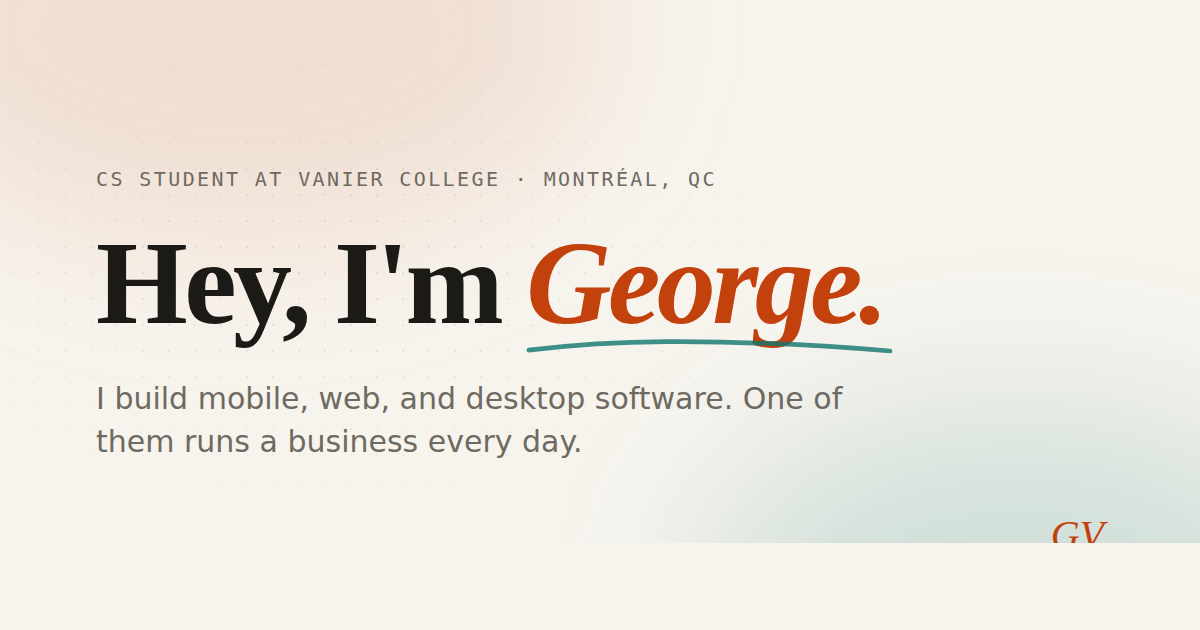
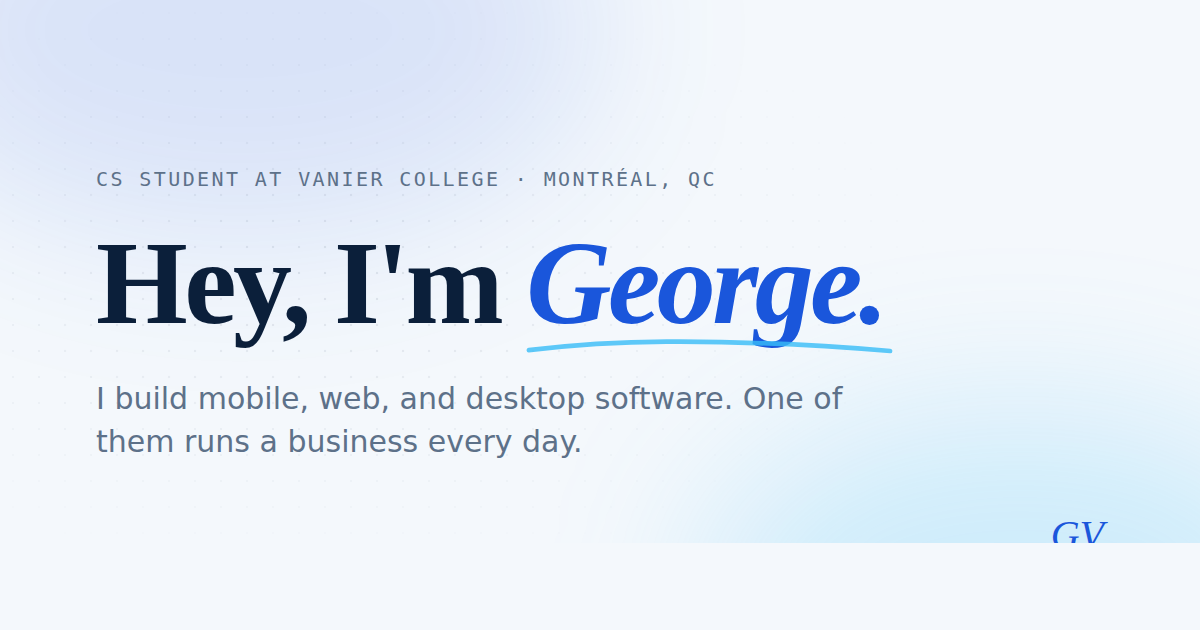
Switch the palette to navy ink on baby-blue paper
Light: baby-blue tinted white surfaces, navy ink, royal blue accent, sky
secondary, cyan tertiary. Dark: navy night surfaces with baby-blue
accents. Card tints, heatmap ramp, sphere wireframe, snake colours,
favicon, README banners, and the Open Graph card follow.

Claude-Session: https://claude.ai/code/session_01V59VLCChq2Fh6LJrqiAk36

diff --git a/styles.css b/styles.css
@@ -1,7 +1,7 @@
 /* ============================================================
    George Vogas — portfolio
-   Light editorial system on warm paper, charcoal ink, and an
-   ember / teal / amber accent palette. Color-coded project cards.
+   Light editorial system on baby-blue tinted paper, navy ink, and a
+   royal blue / sky / cyan accent palette. Color-coded project cards.
    DM Serif Display / DM Sans / DM Mono.
    ============================================================ */
 
@@ -13,70 +13,70 @@
   --sans: 'DM Sans', system-ui, -apple-system, sans-serif;
   --mono: 'DM Mono', ui-monospace, 'SFMono-Regular', Menlo, monospace;
 
-  /* Surfaces — warm paper */
-  --bg: #f7f4ee;
-  --bg-alt: #efeae0;
-  --surface: #fffdf9;
-  --surface-2: #f4f0e8;
+  /* Surfaces — baby-blue paper */
+  --bg: #f4f8fc;
+  --bg-alt: #e9f1f9;
+  --surface: #ffffff;
+  --surface-2: #f1f6fb;
 
-  /* Ink + text — warm charcoal */
-  --ink: #1c1a17;
-  --text: #3d3a34;
-  --muted: #6f6a61;
-  --faint: #9d978c;
+  /* Ink + text — navy */
+  --ink: #0b1f3a;
+  --text: #2a3d57;
+  --muted: #5d7189;
+  --faint: #93a4b8;
 
   /* Hairlines */
-  --line: #e5e0d5;
-  --line-strong: #d3ccbe;
+  --line: #dbe6f1;
+  --line-strong: #c3d3e3;
 
-  /* Accent — ember */
-  --accent: #c2410c;
-  --accent-strong: #9a3412;
-  --accent-deep: #7c2d12;
-  --accent-soft: rgba(194, 65, 12, 0.09);
-  --accent-line: rgba(194, 65, 12, 0.28);
+  /* Accent — royal blue */
+  --accent: #1a56db;
+  --accent-strong: #0b2a5b;
+  --accent-deep: #071b3d;
+  --accent-soft: rgba(26, 86, 219, 0.09);
+  --accent-line: rgba(26, 86, 219, 0.28);
 
-  /* Secondary — deep teal */
-  --violet: #0f766e;
-  --violet-deep: #115e59;
-  --violet-soft: rgba(15, 118, 110, 0.10);
+  /* Secondary — sky blue */
+  --violet: #0284c7;
+  --violet-deep: #075985;
+  --violet-soft: rgba(56, 189, 248, 0.14);
 
-  /* Tertiary — amber */
-  --cyan: #b45309;
-  --cyan-soft: rgba(217, 119, 6, 0.14);
+  /* Tertiary — cyan */
+  --cyan: #0e7490;
+  --cyan-soft: rgba(34, 211, 238, 0.14);
 
   /* Tag colours */
-  --tag-production:  #9a3412;  --tag-production-bg:  rgba(194, 65, 12, 0.10);
-  --tag-commissioned:#9a3412;  --tag-commissioned-bg:rgba(194, 65, 12, 0.10);
-  --tag-deployed:    #0f766e;  --tag-deployed-bg:    rgba(15, 118, 110, 0.12);
-  --tag-team:        #0f766e;  --tag-team-bg:        rgba(15, 118, 110, 0.12);
-  --tag-hackathon:   #b45309;  --tag-hackathon-bg:   rgba(217, 119, 6, 0.14);
-  --tag-academic:    #6b6558;  --tag-academic-bg:    rgba(107, 101, 88, 0.10);
-  --tag-contributor: #9a3412;  --tag-contributor-bg: rgba(194, 65, 12, 0.10);
+  --tag-production:  #0b2a5b;  --tag-production-bg:  rgba(26, 86, 219, 0.10);
+  --tag-commissioned:#0b2a5b;  --tag-commissioned-bg:rgba(26, 86, 219, 0.10);
+  --tag-deployed:    #0369a1;  --tag-deployed-bg:    rgba(56, 189, 248, 0.16);
+  --tag-team:        #0369a1;  --tag-team-bg:        rgba(56, 189, 248, 0.16);
+  --tag-hackathon:   #0e7490;  --tag-hackathon-bg:   rgba(34, 211, 238, 0.14);
+  --tag-academic:    #5d7189;  --tag-academic-bg:    rgba(93, 113, 137, 0.10);
+  --tag-contributor: #0b2a5b;  --tag-contributor-bg: rgba(26, 86, 219, 0.10);
 
   /* Buttons — accent surfaces that carry white text in both themes */
-  --accent-btn: #c2410c;
-  --accent-btn-hover: #9a3412;
+  --accent-btn: #1a56db;
+  --accent-btn-hover: #0b2a5b;
 
   /* Theme-swapped surfaces that can't route through the vars above */
-  --nav-glass: rgba(247, 244, 238, 0.82);
-  --nav-glass-solid: rgba(247, 244, 238, 0.97);
-  --card-mix-base: #fffdf9;
-  --card-pill-bg: #fffdf9;
-  --dot-field: rgba(28, 26, 23, 0.08);
-  --selection-bg: rgba(194, 65, 12, 0.18);
-  --tooltip-bg: #1c1a17;
-  --tooltip-fg: #f7f4ee;
+  --nav-glass: rgba(244, 248, 252, 0.82);
+  --nav-glass-solid: rgba(244, 248, 252, 0.97);
+  --card-mix-base: #ffffff;
+  --card-pill-bg: #ffffff;
+  --dot-field: rgba(11, 31, 58, 0.08);
+  --selection-bg: rgba(26, 86, 219, 0.18);
+  --tooltip-bg: #0b1f3a;
+  --tooltip-fg: #f4f8fc;
 
   /* Contribution heatmap ramp */
-  --heat-0: #ece7dc;
-  --heat-1: #f6c9a8;
-  --heat-2: #f0955c;
-  --heat-3: #d9622a;
-  --heat-4: #9a3412;
+  --heat-0: #e1ecf7;
+  --heat-1: #bfdcf5;
+  --heat-2: #7fbcf0;
+  --heat-3: #3b82f6;
+  --heat-4: #1e40af;
 
   /* Skill-sphere wireframe line colour (r, g, b) */
-  --sphere-wire: 15, 118, 110;
+  --sphere-wire: 56, 189, 248;
 
   /* Geometry */
   --radius: 8px;
@@ -84,73 +84,73 @@
   --nav-h: 64px;
   --font-sm: 0.875rem;
 
-  --shadow-card: 0 18px 40px -28px rgba(28, 26, 23, 0.30);
-  --shadow-lift: 0 26px 55px -30px rgba(28, 26, 23, 0.36);
+  --shadow-card: 0 18px 40px -28px rgba(11, 31, 58, 0.30);
+  --shadow-lift: 0 26px 55px -30px rgba(11, 31, 58, 0.36);
 
   --transition: 0.18s ease;
   --transition-slow: 0.35s ease;
 }
 
 /* ===== Dark theme =====
-   Same editorial system on a warm charcoal surface. Accents shift
+   Same editorial system on a navy night surface. Accents shift
    lighter so text-level uses keep AA contrast; buttons keep their own
    saturated surface via --accent-btn. */
 [data-theme="dark"] {
   color-scheme: dark;
 
-  --bg: #161513;
-  --bg-alt: #1c1b18;
-  --surface: #22201c;
-  --surface-2: #2a2823;
+  --bg: #0a1628;
+  --bg-alt: #0e1c33;
+  --surface: #132340;
+  --surface-2: #1a2d4d;
 
-  --ink: #f3efe6;
-  --text: #cfc9bd;
-  --muted: #9b958a;
-  --faint: #6f6a60;
+  --ink: #eaf2fb;
+  --text: #b9c9dc;
+  --muted: #7f93ac;
+  --faint: #56698a;
 
-  --line: #33302a;
-  --line-strong: #45413a;
+  --line: #223757;
+  --line-strong: #2f4769;
 
-  --accent: #f0955c;
-  --accent-strong: #f7b98f;
-  --accent-deep: #fbd3b8;
-  --accent-soft: rgba(240, 149, 92, 0.13);
-  --accent-line: rgba(240, 149, 92, 0.38);
+  --accent: #7ab8ff;
+  --accent-strong: #a8d0ff;
+  --accent-deep: #cbe2ff;
+  --accent-soft: rgba(122, 184, 255, 0.13);
+  --accent-line: rgba(122, 184, 255, 0.38);
 
-  --violet: #5eead4;
-  --violet-deep: #99f6e4;
-  --violet-soft: rgba(94, 234, 212, 0.12);
+  --violet: #7dd3fc;
+  --violet-deep: #bae6fd;
+  --violet-soft: rgba(125, 211, 252, 0.12);
 
-  --cyan: #fbbf24;
-  --cyan-soft: rgba(251, 191, 36, 0.12);
+  --cyan: #67e8f9;
+  --cyan-soft: rgba(103, 232, 249, 0.12);
 
-  --tag-production:  #f7b98f;  --tag-production-bg:  rgba(240, 149, 92, 0.16);
-  --tag-commissioned:#f7b98f;  --tag-commissioned-bg:rgba(240, 149, 92, 0.16);
-  --tag-deployed:    #5eead4;  --tag-deployed-bg:    rgba(94, 234, 212, 0.13);
-  --tag-team:        #5eead4;  --tag-team-bg:        rgba(94, 234, 212, 0.13);
-  --tag-hackathon:   #fbbf24;  --tag-hackathon-bg:   rgba(251, 191, 36, 0.14);
-  --tag-academic:    #b3ada1;  --tag-academic-bg:    rgba(179, 173, 161, 0.14);
-  --tag-contributor: #f7b98f;  --tag-contributor-bg: rgba(240, 149, 92, 0.16);
+  --tag-production:  #a8d0ff;  --tag-production-bg:  rgba(122, 184, 255, 0.16);
+  --tag-commissioned:#a8d0ff;  --tag-commissioned-bg:rgba(122, 184, 255, 0.16);
+  --tag-deployed:    #7dd3fc;  --tag-deployed-bg:    rgba(125, 211, 252, 0.13);
+  --tag-team:        #7dd3fc;  --tag-team-bg:        rgba(125, 211, 252, 0.13);
+  --tag-hackathon:   #67e8f9;  --tag-hackathon-bg:   rgba(103, 232, 249, 0.14);
+  --tag-academic:    #9fb0c8;  --tag-academic-bg:    rgba(159, 176, 200, 0.14);
+  --tag-contributor: #a8d0ff;  --tag-contributor-bg: rgba(122, 184, 255, 0.16);
 
-  --accent-btn: #c2410c;
-  --accent-btn-hover: #d9531d;
+  --accent-btn: #1a56db;
+  --accent-btn-hover: #2563eb;
 
-  --nav-glass: rgba(22, 21, 19, 0.82);
-  --nav-glass-solid: rgba(22, 21, 19, 0.97);
-  --card-mix-base: #22201c;
-  --card-pill-bg: #1a1916;
-  --dot-field: rgba(243, 239, 230, 0.06);
-  --selection-bg: rgba(240, 149, 92, 0.35);
-  --tooltip-bg: #f3efe6;
-  --tooltip-fg: #161513;
+  --nav-glass: rgba(10, 22, 40, 0.82);
+  --nav-glass-solid: rgba(10, 22, 40, 0.97);
+  --card-mix-base: #132340;
+  --card-pill-bg: #0d1a30;
+  --dot-field: rgba(234, 242, 251, 0.06);
+  --selection-bg: rgba(122, 184, 255, 0.35);
+  --tooltip-bg: #eaf2fb;
+  --tooltip-fg: #0a1628;
 
-  --heat-0: #26231e;
-  --heat-1: #4a3325;
-  --heat-2: #8a4520;
-  --heat-3: #d9622a;
-  --heat-4: #f7b98f;
+  --heat-0: #16294a;
+  --heat-1: #1e3f6e;
+  --heat-2: #2f6fc0;
+  --heat-3: #5aa2ff;
+  --heat-4: #a8d0ff;
 
-  --sphere-wire: 94, 234, 212;
+  --sphere-wire: 125, 211, 252;
 
   --shadow-card: 0 18px 40px -28px rgba(0, 0, 0, 0.55);
   --shadow-lift: 0 26px 55px -30px rgba(0, 0, 0, 0.65);
@@ -260,7 +260,7 @@ h1, h2, h3, h4 {
   z-index: 100;
   height: calc(var(--nav-h) + env(safe-area-inset-top, 0px));
   padding-top: env(safe-area-inset-top, 0px);
-  background: rgba(247, 244, 238, 0);
+  background: rgba(244, 248, 252, 0);
   backdrop-filter: blur(0px);
   border-bottom: 1px solid transparent;
   transition: background 0.3s ease, border-color 0.3s ease, backdrop-filter 0.3s ease;
@@ -665,7 +665,7 @@ h1, h2, h3, h4 {
 .btn--primary:hover {
   background: var(--accent-btn-hover);
   border-color: var(--accent-btn-hover);
-  box-shadow: 0 12px 26px -14px rgba(154, 52, 18, 0.7);
+  box-shadow: 0 12px 26px -14px rgba(11, 42, 91, 0.7);
 }
 .btn--secondary {
   background: var(--surface);
@@ -675,7 +675,7 @@ h1, h2, h3, h4 {
 .btn--secondary:hover {
   border-color: var(--accent);
   color: var(--accent-strong);
-  box-shadow: 0 12px 26px -16px rgba(194, 65, 12, 0.45);
+  box-shadow: 0 12px 26px -16px rgba(26, 86, 219, 0.45);
 }
 
 /* ===== About ===== */
@@ -699,7 +699,7 @@ h1, h2, h3, h4 {
   border: 1px solid var(--line-strong);
   border-radius: 3px;
   padding: 28px 28px 30px;
-  box-shadow: 0 10px 26px -22px rgba(28, 26, 23, 0.5);
+  box-shadow: 0 10px 26px -22px rgba(11, 31, 58, 0.5);
   transform: rotate(-0.7deg);
   margin-top: 6px;
 }

diff --git a/index.html b/index.html
@@ -8,8 +8,8 @@
   <link rel="canonical" href="https://gvogas.github.io/gvogas/" />
   <link rel="icon" href="favicon.svg" type="image/svg+xml" />
   <link rel="apple-touch-icon" href="apple-touch-icon.png" />
-  <meta name="theme-color" content="#f7f4ee" media="(prefers-color-scheme: light)" />
-  <meta name="theme-color" content="#161513" media="(prefers-color-scheme: dark)" />
+  <meta name="theme-color" content="#f4f8fc" media="(prefers-color-scheme: light)" />
+  <meta name="theme-color" content="#0a1628" media="(prefers-color-scheme: dark)" />
 
   <!-- Open Graph / Twitter -->
   <meta property="og:type" content="website" />
@@ -67,7 +67,7 @@
       } catch (e) {}
     })();
   </script>
-  <link rel="stylesheet" href="styles.css?v=3" />
+  <link rel="stylesheet" href="styles.css?v=4" />
   <script type="importmap">
   {
     "imports": {
@@ -226,7 +226,7 @@
         <div class="projects__grid">
 
           <!-- Scheduling App (featured) -->
-          <article class="card card--featured" style="--card-tint:#c2410c">
+          <article class="card card--featured" style="--card-tint:#1a56db">
             <div class="card__aside">
               <div class="card__header">
                 <div class="card__meta">
@@ -265,7 +265,7 @@
           </article>
 
           <!-- TicketMaestrix -->
-          <article class="card" style="--card-tint:#0f766e">
+          <article class="card" style="--card-tint:#0284c7">
             <div class="card__header">
               <div class="card__meta">
                 <div class="card__tags">
@@ -303,7 +303,7 @@
           </article>
 
           <!-- AI Study Assistant -->
-          <article class="card" style="--card-tint:#b45309">
+          <article class="card" style="--card-tint:#0891b2">
             <div class="card__header">
               <div class="card__meta">
                 <div class="card__tags">
@@ -341,7 +341,7 @@
           </article>
 
           <!-- Point-of-Sales -->
-          <article class="card" style="--card-tint:#6b6558">
+          <article class="card" style="--card-tint:#5d7189">
             <div class="card__header">
               <div class="card__meta">
                 <div class="card__tags">
@@ -372,7 +372,7 @@
           </article>
 
           <!-- The Rogue Market -->
-          <article class="card" style="--card-tint:#6b6558">
+          <article class="card" style="--card-tint:#5d7189">
             <div class="card__header">
               <div class="card__meta">
                 <div class="card__tags">
@@ -404,7 +404,7 @@
           </article>
 
           <!-- Last Signal -->
-          <article class="card" style="--card-tint:#9a3412">
+          <article class="card" style="--card-tint:#0b2a5b">
             <div class="card__header">
               <div class="card__meta">
                 <div class="card__tags">
@@ -675,6 +675,6 @@
     </div>
   </footer>
 
-  <script type="module" src="script.js?v=3"></script>
+  <script type="module" src="script.js?v=4"></script>
 </body>
 </html>

diff --git a/script.js b/script.js
@@ -66,7 +66,7 @@
         theme === 'dark' ? 'Switch to light theme' : 'Switch to dark theme');
     }
     document.querySelectorAll('meta[name="theme-color"]').forEach(meta => {
-      meta.setAttribute('content', theme === 'dark' ? '#161513' : '#f7f4ee');
+      meta.setAttribute('content', theme === 'dark' ? '#0a1628' : '#f4f8fc');
     });
     window.dispatchEvent(new CustomEvent('themechange', { detail: { theme } }));
   }

diff --git a/404.html b/404.html
@@ -16,7 +16,7 @@
       document.documentElement.dataset.theme = t;
     } catch (e) {}
   </script>
-  <link rel="stylesheet" href="/gvogas/styles.css?v=3" />
+  <link rel="stylesheet" href="/gvogas/styles.css?v=4" />
   <style>
     .notfound {
       min-height: 100vh;
